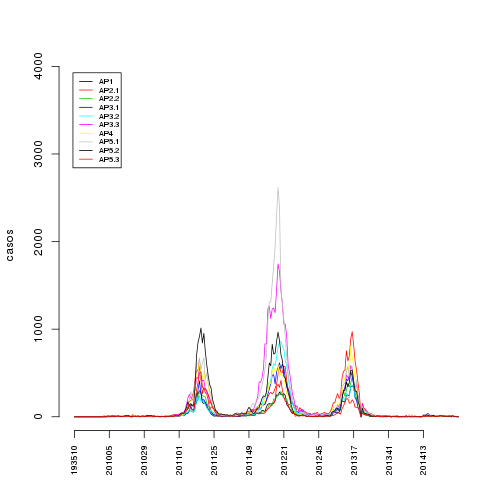
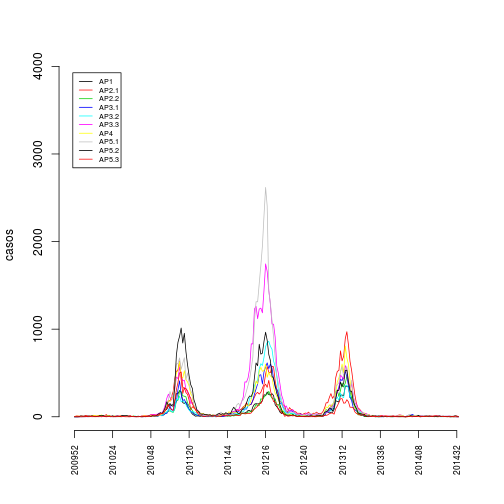
organizatemp coleta dado de temp do galeao direto do http

diff --git a/GeraAlerta/organizaDados/organizasinan2014.md b/GeraAlerta/organizaDados/organizasinan2014.md
@@ -16,13 +16,13 @@ novosinan <- paste("../",novosinan,sep="")
 
 
 ```
-##   DT_NOTIFIC SEM_NOT NU_ANO DT_SIN_PRI SEM_PRI    NM_BAIRRO
-## 1 2014-01-07  201402   2014 2014-01-04  201401 DEL CASTILHO
-## 2 2014-01-13  201403   2014 2014-01-12  201403        PENHA
-## 3 2014-01-15  201403   2014 2014-01-13  201403        BANGU
-## 4 2014-01-02  201401   2014 2013-12-26  201352   COPACABANA
-## 5 2014-01-03  201401   2014 2013-11-18  201347      ANDARAI
-## 6 2014-01-15  201403   2014 2014-01-12  201403        BANGU
+##   DT_NOTIFIC SEM_NOT NU_ANO DT_SIN_PRI SEM_PRI   NM_BAIRRO
+## 1 2014-01-15  201403   2014 2014-01-11  201402      TIJUCA
+## 2 2014-01-10  201402   2014 2014-01-07  201402       BANGU
+## 3 2014-01-09  201402   2014 2014-01-03  201401 SAO CONRADO
+## 4 2014-01-16  201403   2014 2014-01-03  201401    ANCHIETA
+## 5 2014-01-06  201402   2014 2014-01-04  201401       BANGU
+## 6 2014-01-13  201403   2014 2014-01-03  201401 LARANJEIRAS
 ```
 
 
@@ -33,7 +33,7 @@ novosinan <- paste("../",novosinan,sep="")
 Numero de registros sem AP (falha no mapeamento bairro -> APS)
 
 ```
-## [1] 147
+## [1] 47
 ```
 
 
@@ -42,19 +42,19 @@ Numero de registros sem AP (falha no mapeamento bairro -> APS)
 
 ```
 ##        SE casos
-## 51 201420    63
-## 52 201421    57
-## 53 201422    38
-## 54 201423    40
-## 55 201424    19
-## 56 201425     4
+## 28 201428    25
+## 29 201429    26
+## 30 201430    24
+## 31 201431    41
+## 32 201432    29
+## 33 201433     2
 ```
 
 **Total de casos no ano**
 
 
 ```
-## [1] 2185
+## [1] 1891
 ```
 
 
@@ -77,7 +77,7 @@ outputfile1
 ```
 
 ```
-## [1] "../dados_limpos/sinanAP_201425.csv"
+## [1] "../dados_limpos/sinanAP_201433.csv"
 ```
 
 ```r
@@ -85,5 +85,5 @@ outputfile2
 ```
 
 ```
-## [1] "../dados_limpos/sinanRJ_201425.csv"
+## [1] "../dados_limpos/sinanRJ_201433.csv"
 ```
